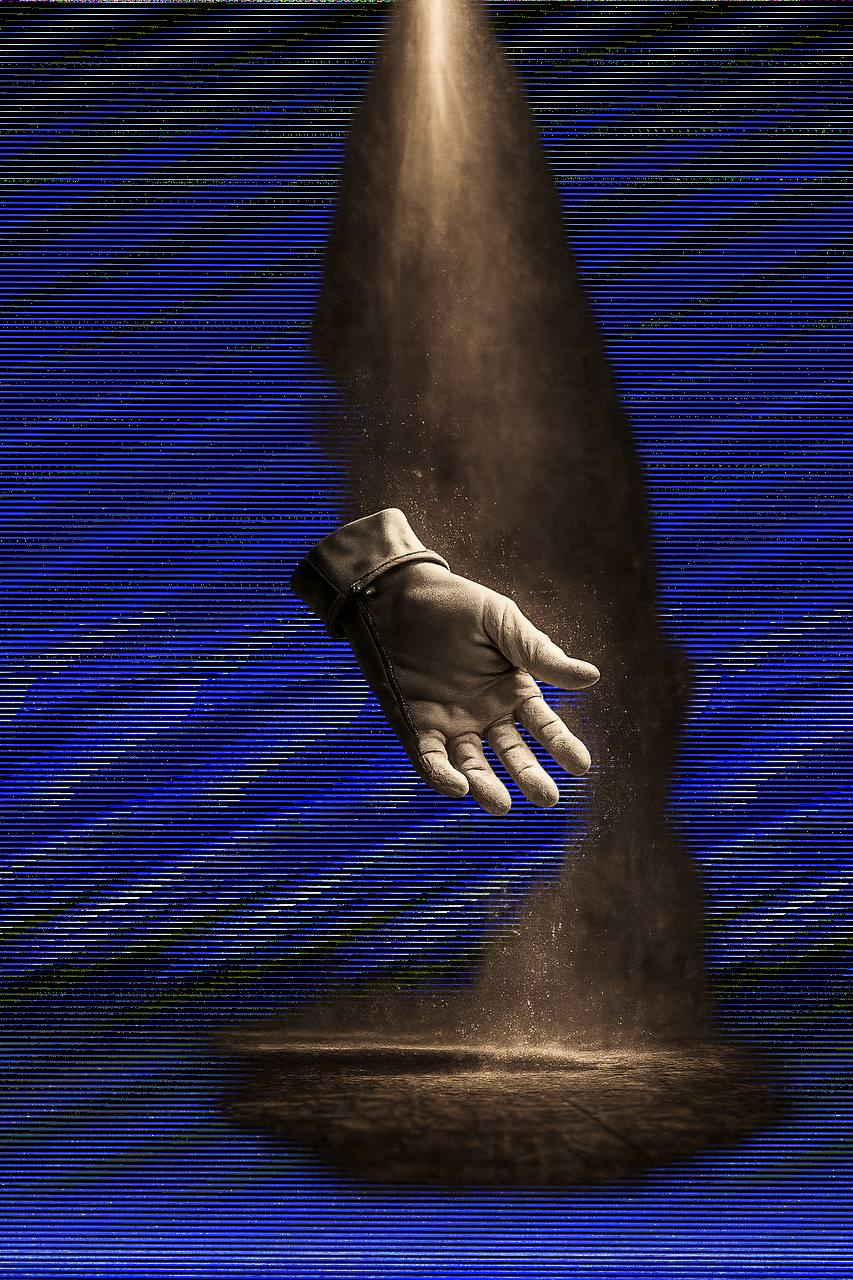
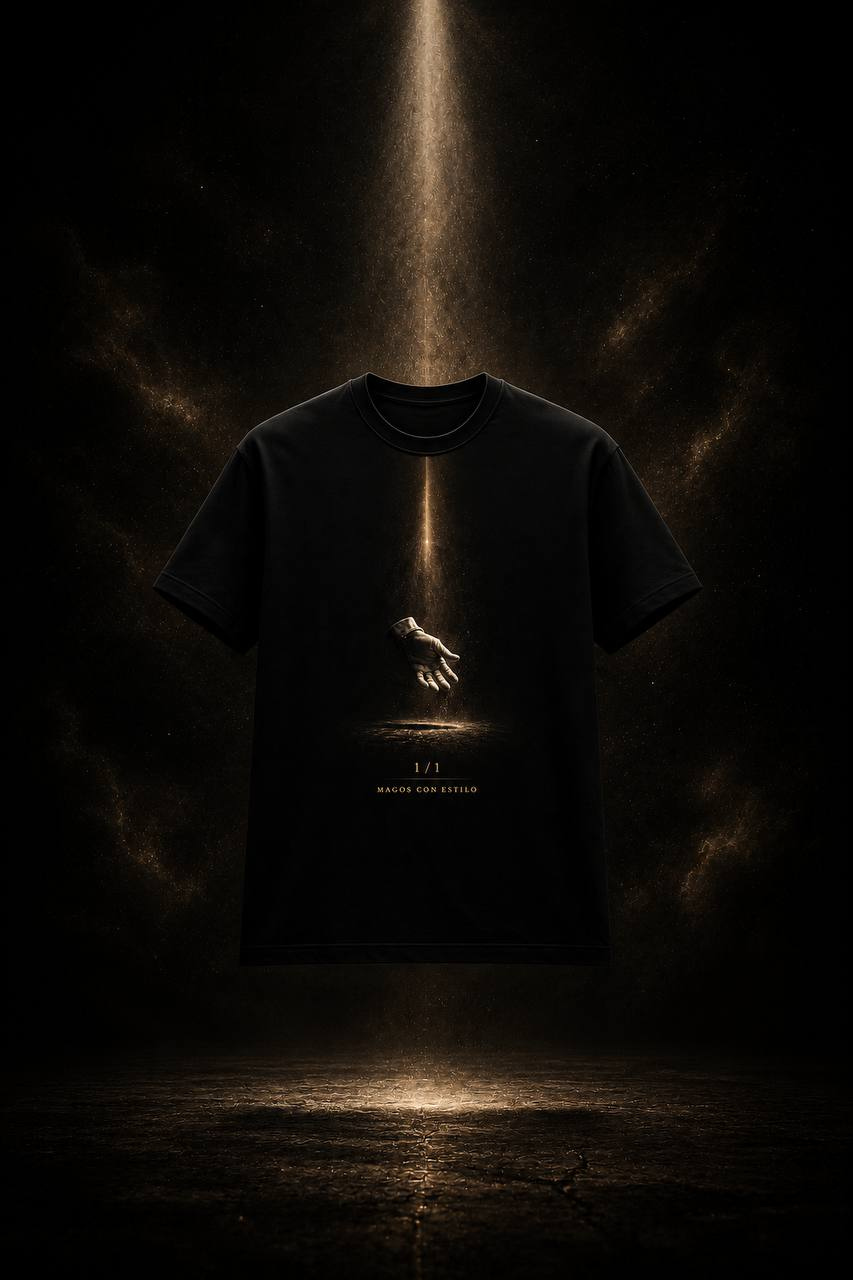
Actualiza imagen hero One to One con la nueva foto del producto (sin quitar fondo)

diff --git a/one-to-one-the-moment-before.html b/one-to-one-the-moment-before.html
@@ -178,7 +178,7 @@ img{max-width:100%;height:auto;display:block}a{text-decoration:none;color:inheri
     <div class="hero-content">
       <div class="hero-left">
         <div class="hero-floating-container fade-up f1">
-          <img src="assets/one-to-one-hero.png" alt="The Moment Before" class="hero-floating-image" onerror="this.style.display='none'">
+          <img src="assets/one-to-one-hero.jpg" alt="The Moment Before" class="hero-floating-image">
           <div class="hero-glow"></div>
         </div>
         <div class="fade-up f2" style="text-align:center;width:100%;">